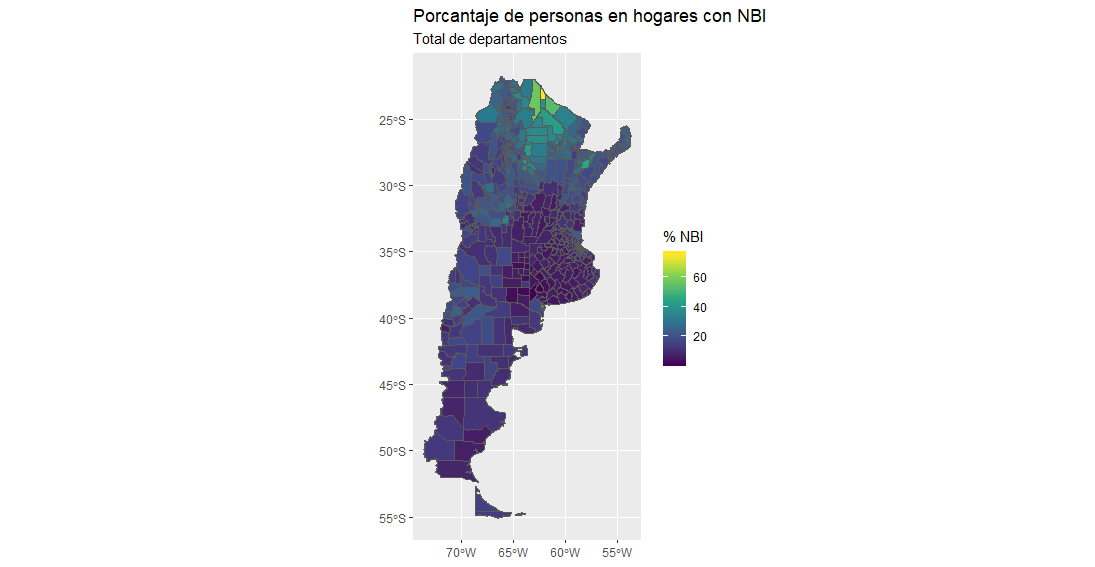
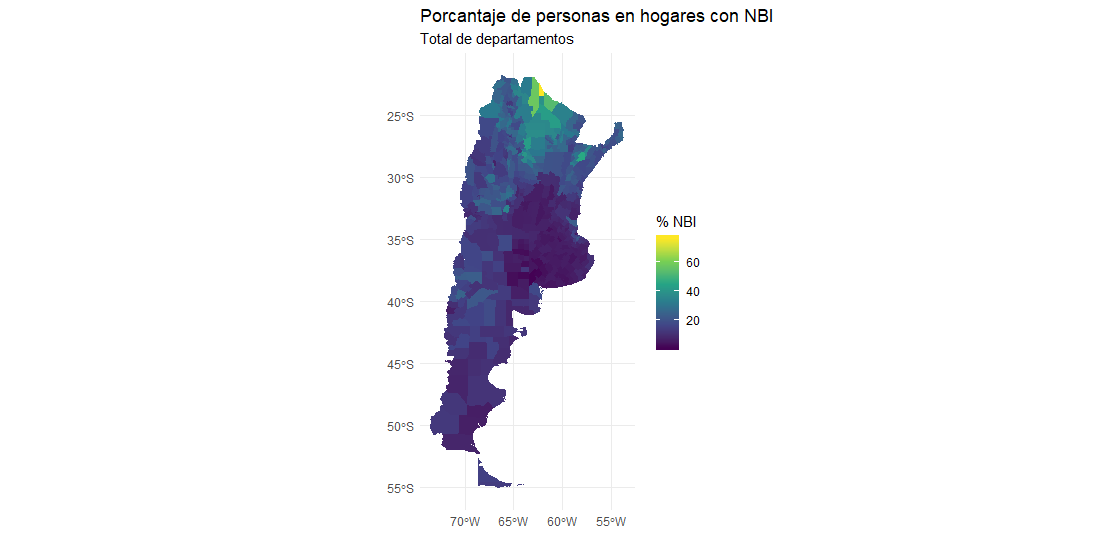
Updt post

diff --git a/_posts/2019-03-14-Consultando-mapas.md b/_posts/2019-03-14-Consultando-mapas.md
@@ -74,11 +74,12 @@ ind_filtrado<-ind_dpto %>%
         filter(departamento!="Antártida Argentina" & departamento!="Islas del Atlántico Sur")
 
 ggplot() + 
-        geom_sf(data=ind_filtrado, aes(fill=personas_con_nbi_porc)) +
+        geom_sf(data=ind_filtrado, color=NA, aes(fill=personas_con_nbi_porc)) +
         scale_fill_viridis_c() +
-        labs(title = "Porcentaje de personas en hogares con NBI",
+        labs(title = "Porcantaje de personas en hogares con NBI",
              subtitle = "Total de departamentos",
-             fill = "% NBI")
+             fill = "% NBI") + 
+        theme_minimal()
 ```
 
 Podemos ver que el mapa está muy bonito:
@@ -121,4 +122,15 @@ Código completo
 
     # Salvamos el archivo
     ind_radio <- st_read(file, stringsAsFactors = TRUE)
+    
+    ind_filtrado<-ind_dpto %>%
+        filter(departamento!="Antártida Argentina" & departamento!="Islas del Atlántico Sur")
+
+ggplot() + 
+        geom_sf(data=ind_filtrado, color=NA, aes(fill=personas_con_nbi_porc)) +
+        scale_fill_viridis_c() +
+        labs(title = "Porcantaje de personas en hogares con NBI",
+             subtitle = "Total de departamentos",
+             fill = "% NBI") + 
+        theme_minimal()
 ```
